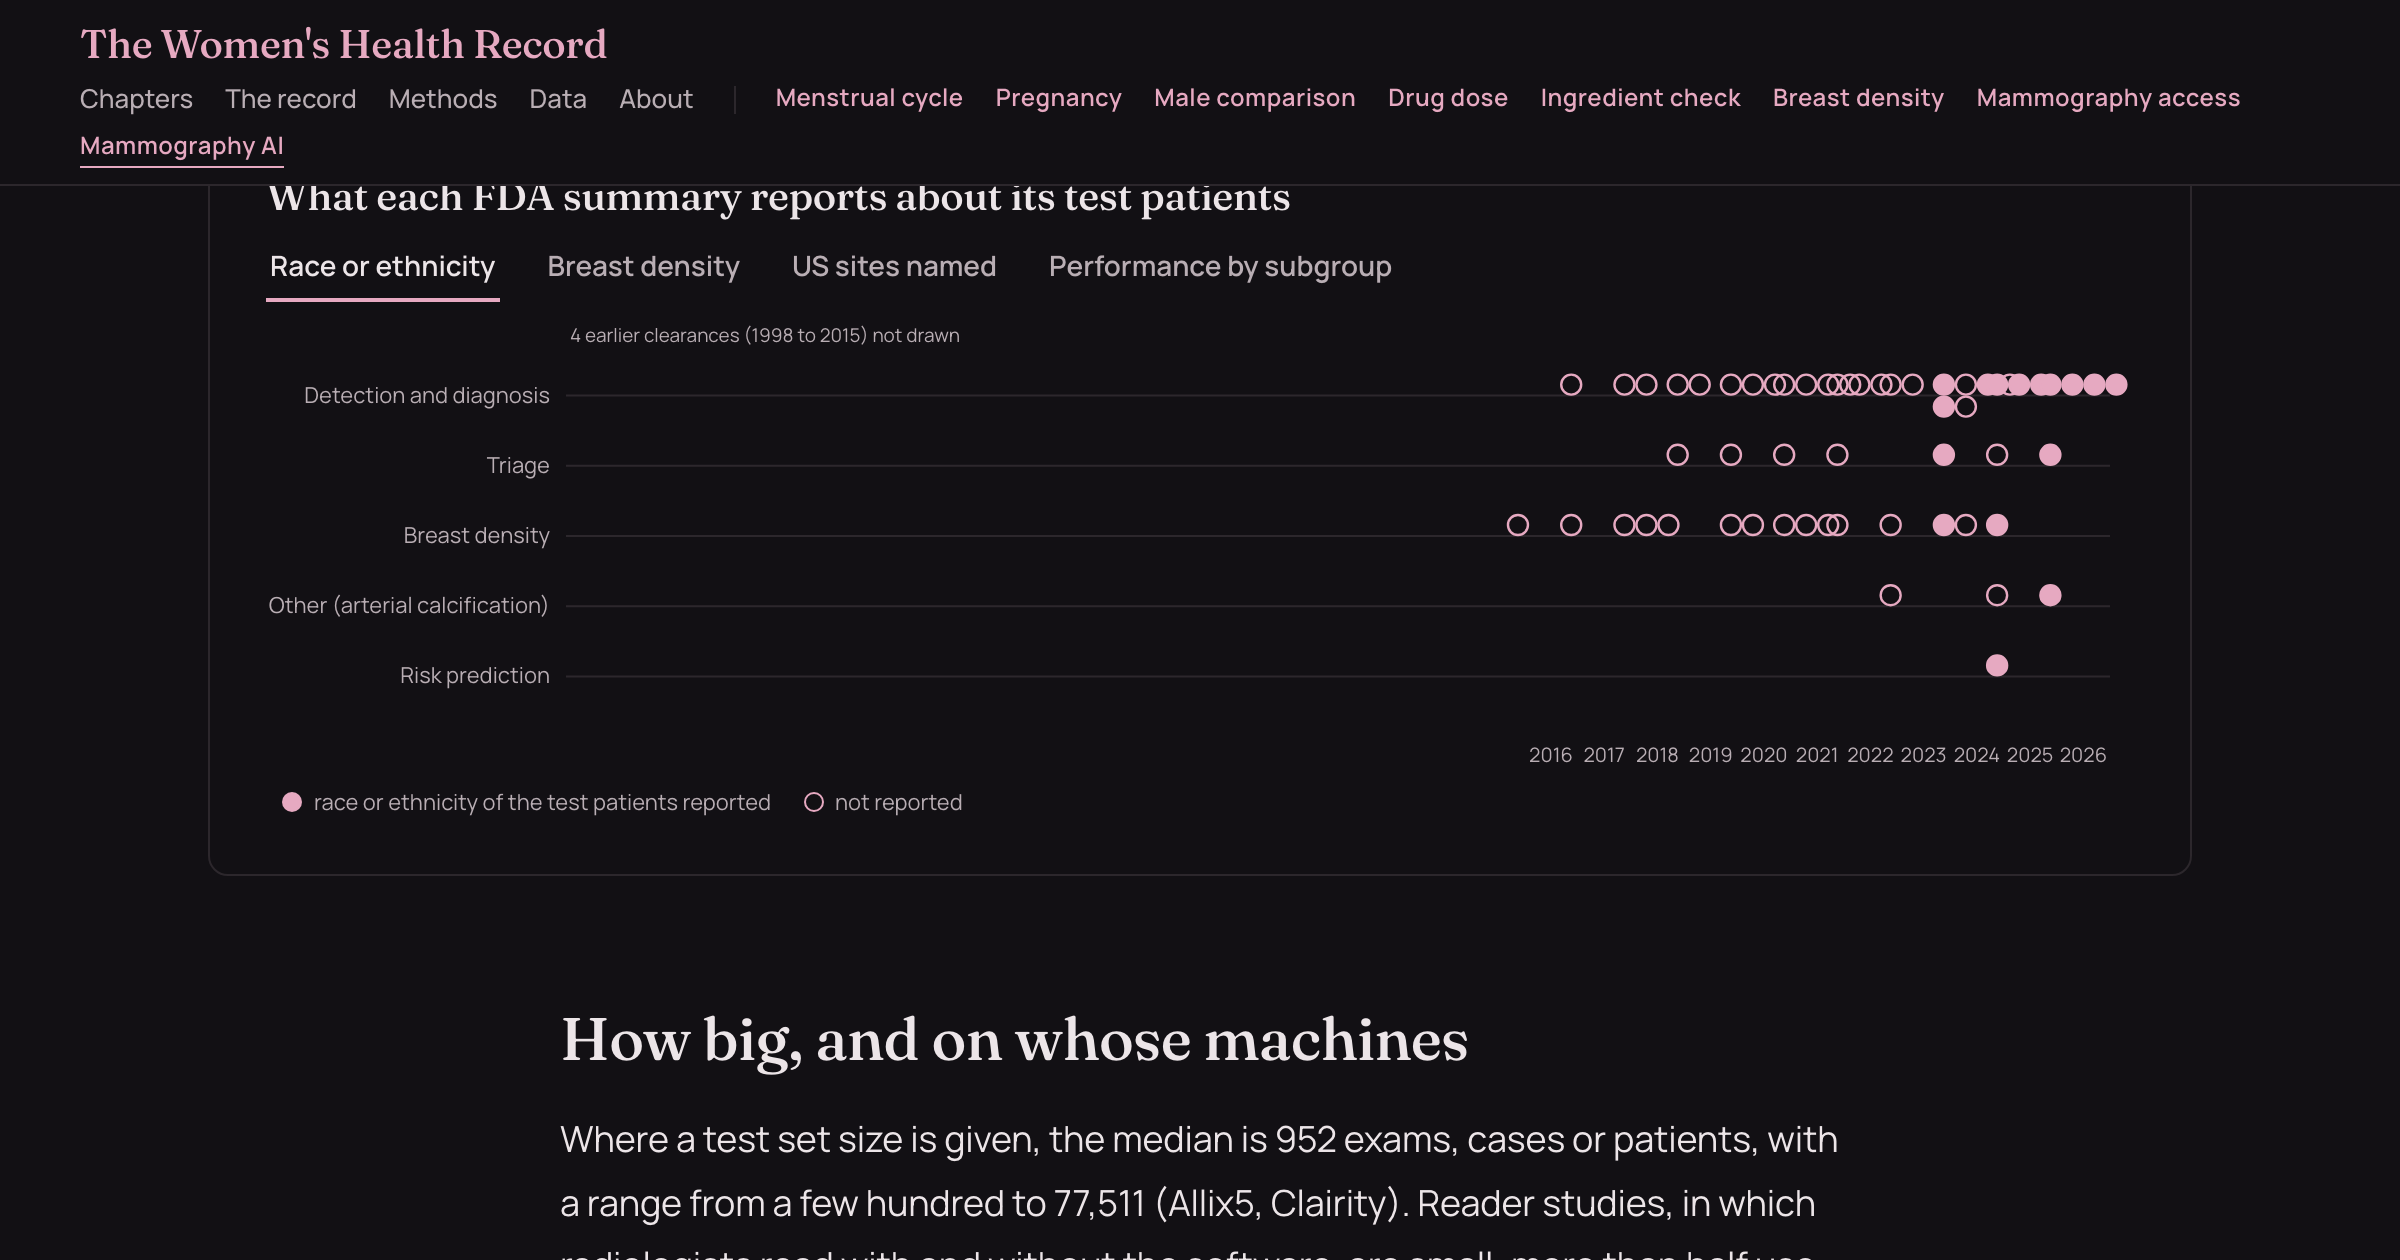
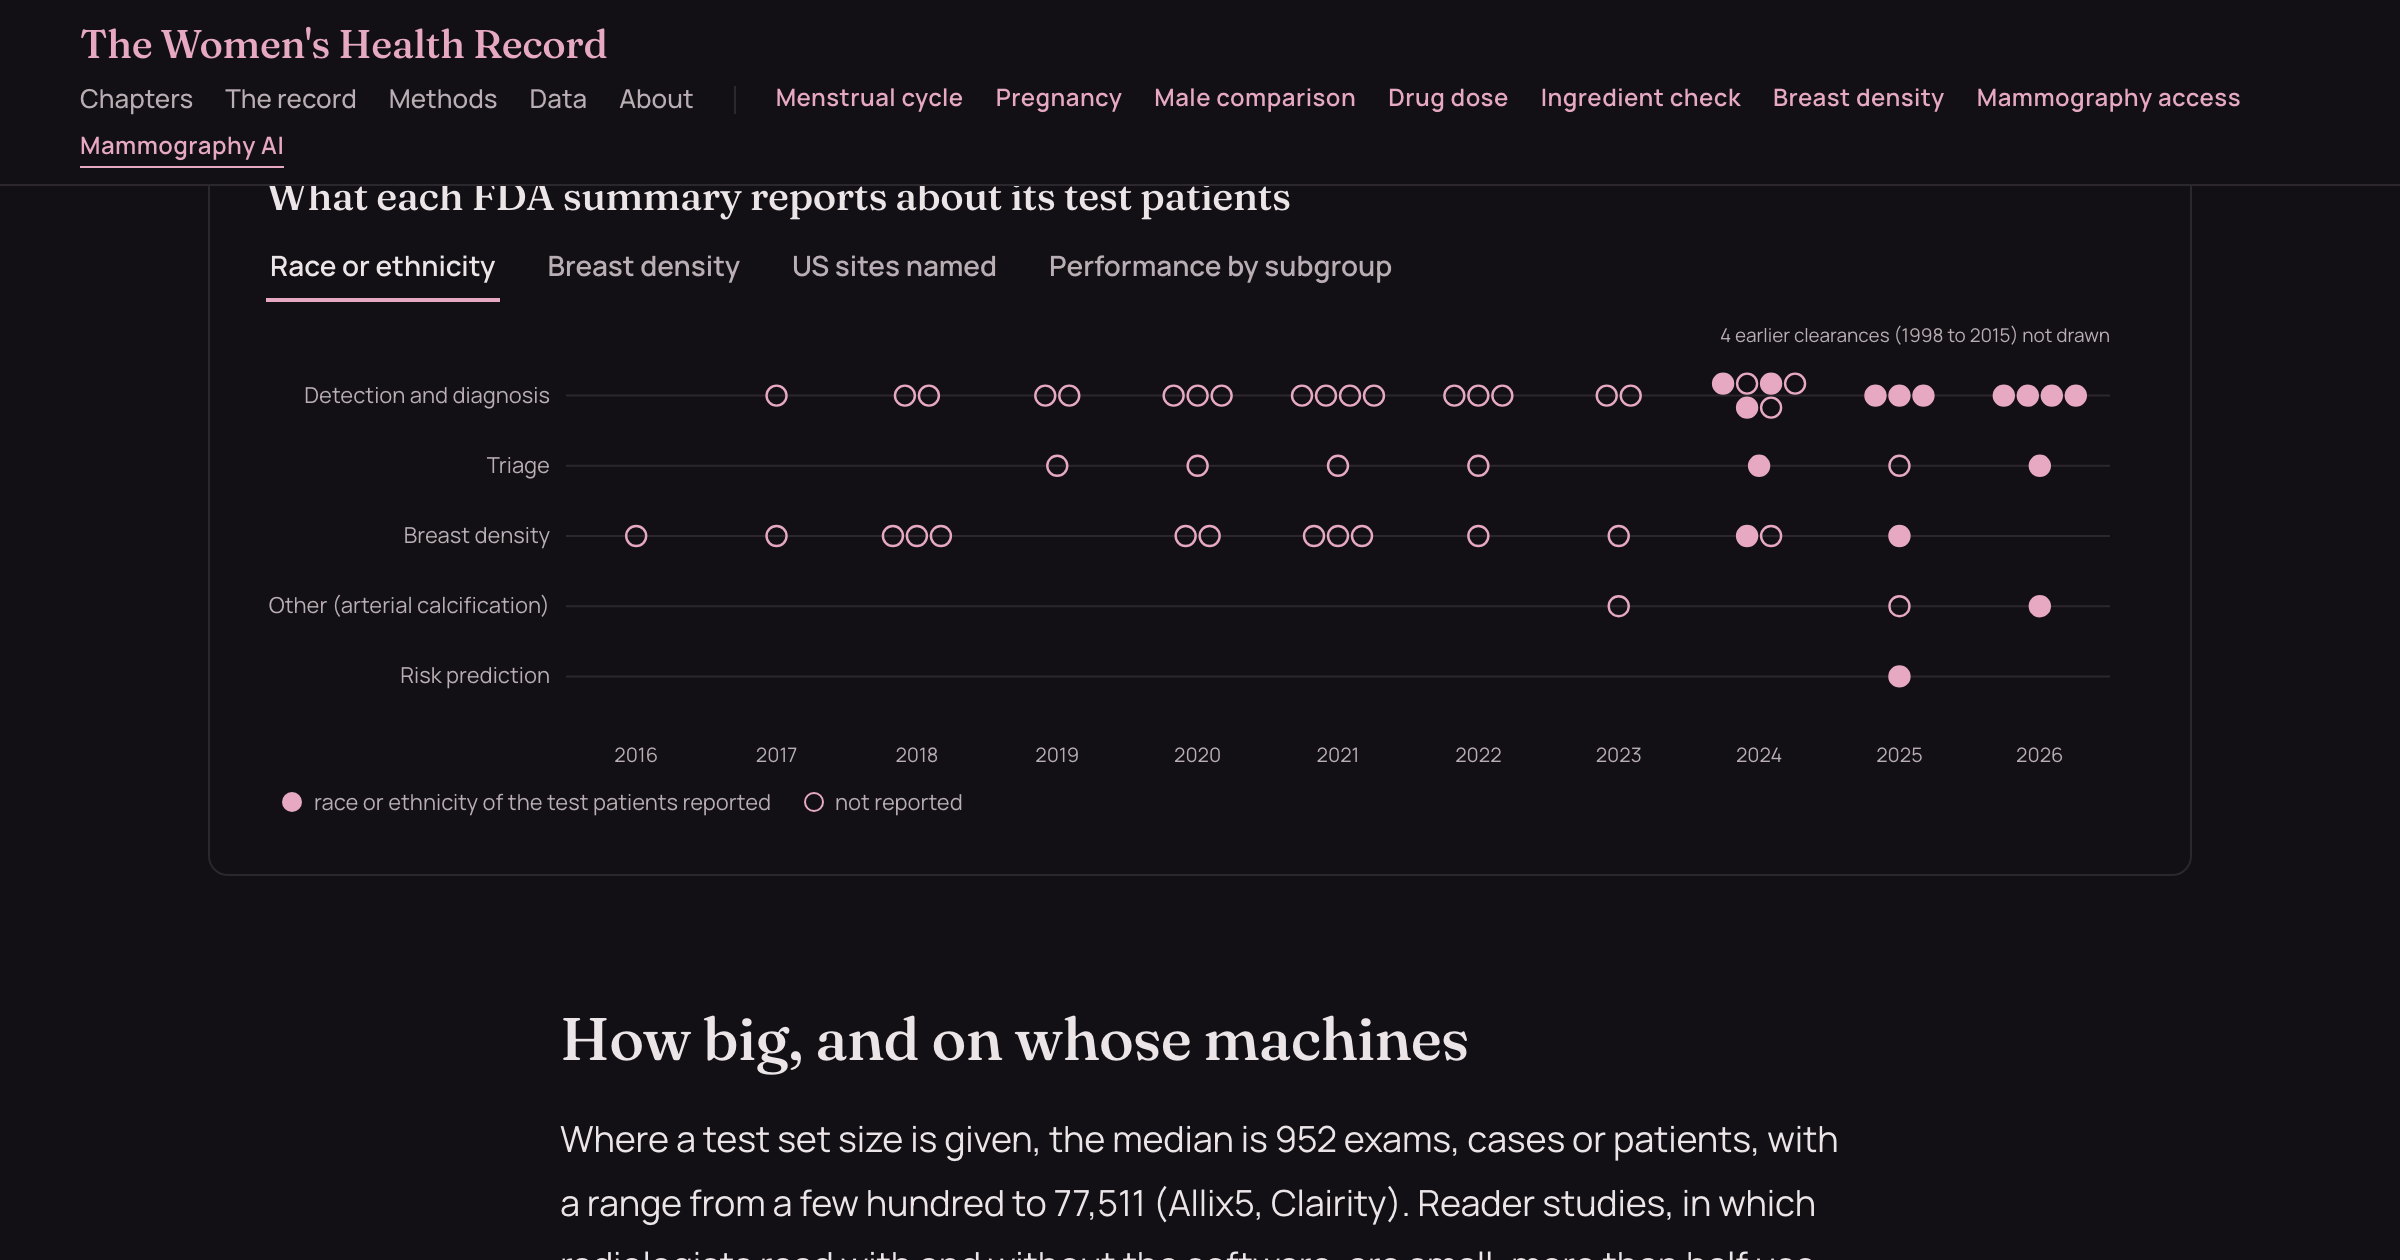
Home without images; audit timeline spread across years

diff --git a/site/src/mammoai/components/Timeline.tsx b/site/src/mammoai/components/Timeline.tsx
@@ -13,7 +13,7 @@ export default function Timeline({ devices, field }: { devices: Device[]; field:
   const w = Math.max(320, width), h = 230
   const m = { top: 16, right: 12, bottom: 28, left: 150 }
   const years = d3.extent(devices, d => d.year) as [number, number]
-  const x = d3.scaleLinear().domain([Math.min(years[0], 2016) - 0.5, years[1] + 0.5]).range([m.left, w - m.right])
+  const x = d3.scaleLinear().domain([2015.5, years[1] + 0.5]).range([m.left, w - m.right])
   const y = d3.scaleBand<Role>().domain(ROLES).range([m.top, h - m.bottom]).padding(0.3)
   const [hov, setHov] = useState<Device | null>(null)
   // stack dots within the same year and role
@@ -25,12 +25,18 @@ export default function Timeline({ devices, field }: { devices: Device[]; field:
       <svg width={w} height={h}>
         {ROLES.map(role => <g key={role}><line x1={m.left} x2={w - m.right} y1={(y(role) ?? 0) + y.bandwidth() / 2} y2={(y(role) ?? 0) + y.bandwidth() / 2} stroke="var(--c-grid)" /><text x={m.left - 8} y={(y(role) ?? 0) + y.bandwidth() / 2} dy="0.32em" textAnchor="end" fontSize={11} fill="var(--c-text-2)">{ROLE_LABEL[role]}</text></g>)}
         {d3.range(2016, years[1] + 1).map(yr => <text key={yr} x={x(yr)} y={h - 8} textAnchor="middle" fontSize={10} fill="var(--c-text-2)">{yr}</text>)}
-        {early.length > 0 && <text x={m.left + 2} y={m.top - 4} fontSize={9.5} fill="var(--c-text-2)">{early.length} earlier clearances (1998 to 2015) not drawn</text>}
-        {Array.from(groups.values()).flatMap(g => g.filter(d => d.year >= 2016).map((d, i) => {
-          const cx = x(d.year) + ((i % 4) - 1.5) * (r * 2.2), cy = (y(d.role) ?? 0) + y.bandwidth() / 2 + (Math.floor(i / 4) - 0.5) * (r * 2.2)
+        {early.length > 0 && <text x={w - m.right} y={m.top - 4} textAnchor="end" fontSize={9.5} fill="var(--c-text-2)">{early.length} earlier clearances (1998 to 2015) not drawn</text>}
+        {Array.from(groups.values()).flatMap(g0 => {
+          const g = g0.filter(d => d.year >= 2016)
+          const band = x(2017) - x(2016), step = r * 2.4, perRow = Math.max(1, Math.floor((band - step) / step))
+          const rows = Math.ceil(g.length / perRow)
+          return g.map((d, i) => {
+          const row = Math.floor(i / perRow), inRow = Math.min(perRow, g.length - row * perRow), col = i % perRow
+          const cx = x(d.year) + (col - (inRow - 1) / 2) * step, cy = (y(d.role) ?? 0) + y.bandwidth() / 2 + (row - (rows - 1) / 2) * step
           const on = Boolean(d[field])
           return <circle key={d.submission} cx={cx} cy={cy} r={r} fill={on ? 'var(--c-emphasis)' : 'transparent'} stroke="var(--c-emphasis)" strokeWidth={1.2} onPointerEnter={() => setHov(d)} onPointerLeave={() => setHov(null)} style={{ cursor: 'default' }} />
-        }))}
+          })
+        })}
       </svg>
       <div className="mt-1 flex flex-wrap items-center gap-x-4 gap-y-1 px-2 text-[11px] text-ink-2">
         <span className="inline-flex items-center gap-1.5"><span className="inline-block h-2.5 w-2.5 rounded-full" style={{ background: 'var(--c-emphasis)' }} />{FIELD_LABEL[field]}</span>

diff --git a/site/src/pages/Home.tsx b/site/src/pages/Home.tsx
@@ -2,13 +2,11 @@ import { Link } from 'react-router-dom'
 import { CHAPTERS } from '../lib/chapters'
 import { EXPERIMENTS } from '../experiments/list'
 
-const BASE = import.meta.env.BASE_URL
-
 export default function Home() {
   return (
     <div>
-      <section className="mx-auto max-w-6xl px-4 pt-12 pb-10 grid gap-8 lg:grid-cols-[minmax(0,26rem)_1fr] lg:items-center">
-        <div>
+      <section className="mx-auto max-w-6xl px-4 pt-12 pb-6">
+        <div className="max-w-[42rem]">
           <h1 className="display text-3xl sm:text-[2.5rem] font-medium leading-[1.15]">The Women's Health Record</h1>
           <p className="mt-4 text-[17px] text-ink-2 leading-relaxed">
             Public data on how medicine measures, tests and treats women, re-analysed from the primary sources. Six chapters and eight interactive experiments,
@@ -22,10 +20,6 @@ export default function Home() {
             <Link to="/methods" className="text-berry underline underline-offset-4">Methods</Link>
           </p>
         </div>
-        <Link to="/mammography-access" className="block overflow-hidden rounded-lg border border-hairline bg-[#121014]">
-          <img src={`${BASE}home/mammography-access.png`} alt="Every county in the United States coloured by certified mammography facilities per ten thousand women aged 40 to 74" className="block w-full" />
-          <p className="px-4 py-2.5 text-[13px] text-[#B9AEB4]">Certified mammography facilities per 10,000 women aged 40 to 74, by county. Experiment 7.</p>
-        </Link>
       </section>
 
       <section className="mx-auto max-w-6xl px-4 py-8 grid gap-x-12 gap-y-10 lg:grid-cols-2">
